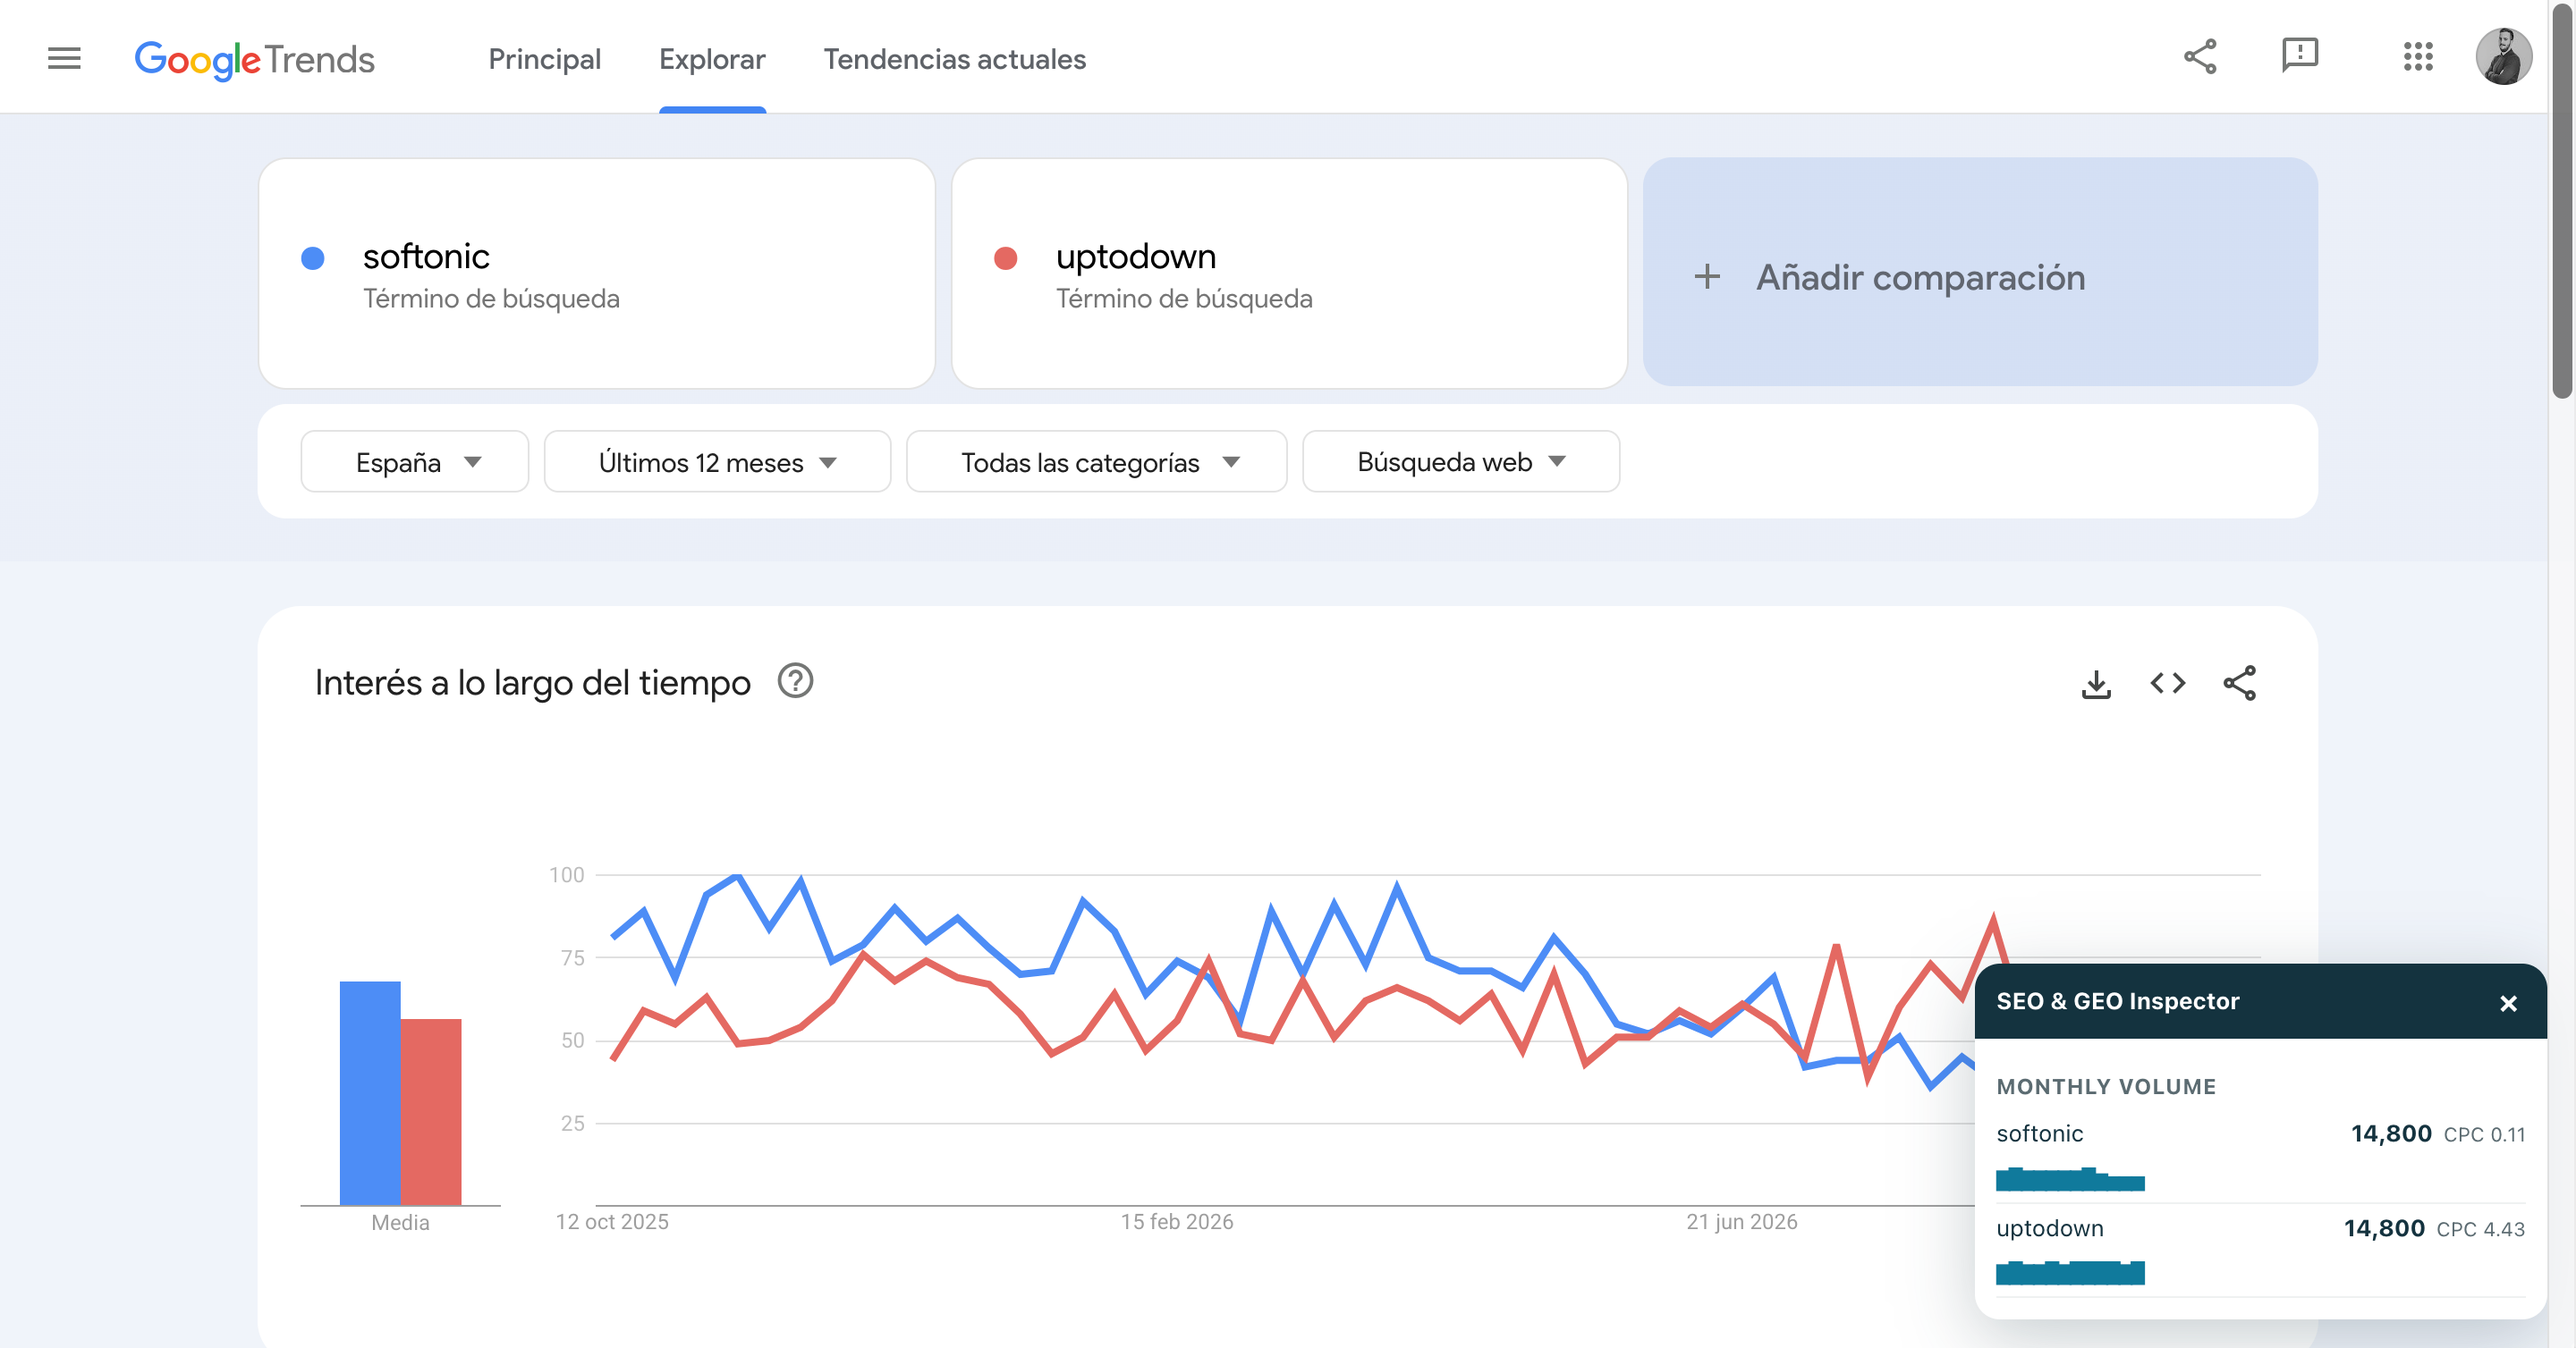
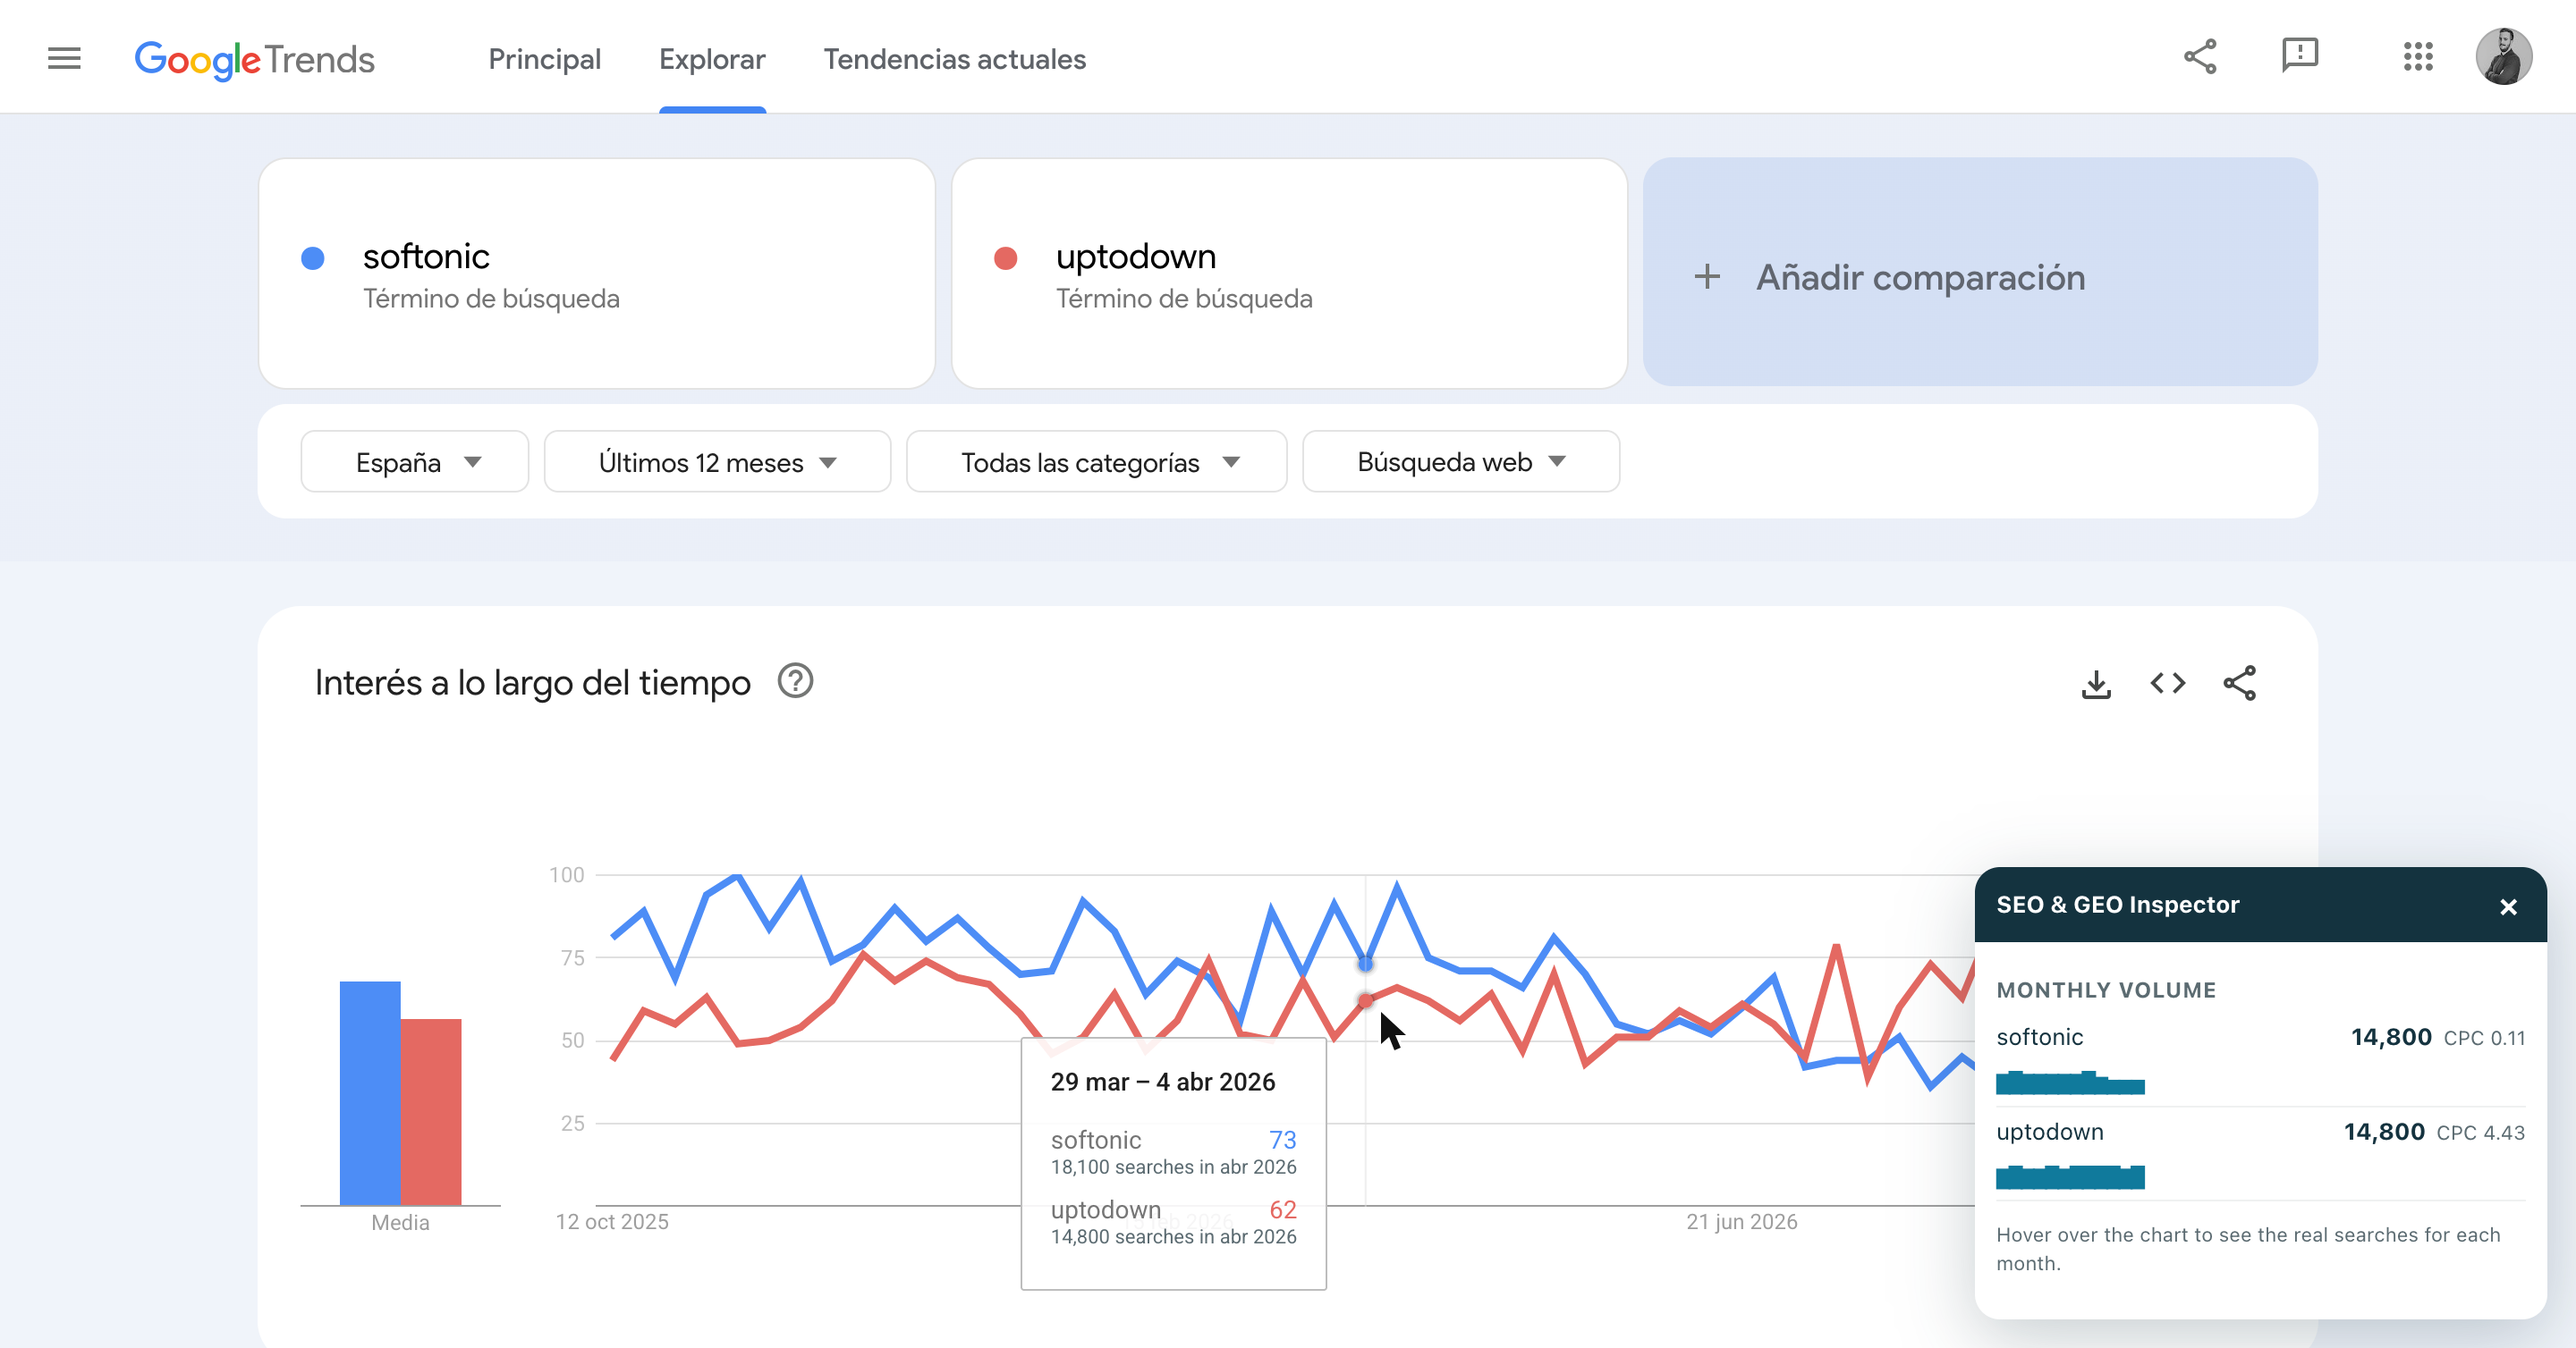
feat: extension landing Trends capture shows monthly searches in the chart tooltip

diff --git a/src/data/extension.ts b/src/data/extension.ts
@@ -219,12 +219,12 @@ export const extensionLanding: Record<Lang, ExtensionLandingCopy> = {
         id: 'serps',
         title: 'Entidades y volúmenes en Google y Trends',
         detail: [
-          'En cada búsqueda de Google, un recuadro con las entidades del Knowledge Graph que aparecen en la SERP, con su kgmid y su enlace a Wikidata. Con tu cuenta de DataForSEO suma el volumen mensual, el CPC y la tendencia de 12 meses de la búsqueda y de sus relacionadas. En Google Trends, el volumen de los términos que comparas.',
+          'En cada búsqueda de Google, un recuadro con las entidades del Knowledge Graph que aparecen en la SERP, con su kgmid y su enlace a Wikidata. Con tu cuenta de DataForSEO suma el volumen mensual, el CPC y la tendencia de 12 meses de la búsqueda y de sus relacionadas. En Google Trends, el volumen de los términos que comparas y, al pasar el ratón por la gráfica, las búsquedas reales de cada mes.',
           'Pagas a DataForSEO solo lo que consultas y cada volumen se guarda 30 días. Con una clave de la API Natural Language de Google, además, saca las entidades que tratan los 10 primeros resultados.',
         ],
         shots: [
           { shot: 'serp-volumenes', alt: 'Búsqueda de softonic en Google con el recuadro de la extensión: la entidad Softonic con su kgmid y el volumen de la búsqueda y de sus relacionadas', caption: 'softonic: 14.800 búsquedas al mes en España, y el volumen de cada búsqueda relacionada.', wide: true },
-          { shot: 'trends-volumenes', alt: 'Google Trends comparando softonic y uptodown, con el volumen mensual de cada término en el recuadro de la extensión', caption: 'Trends enseña el interés relativo; la extensión añade cuántas búsquedas son.', wide: true },
+          { shot: 'trends-volumenes', alt: 'Google Trends comparando softonic y uptodown: el tooltip de la semana del 29 de marzo añade 18.100 y 14.800 búsquedas en abril de 2026, y el recuadro de la extensión da el volumen mensual de cada término', caption: 'Trends enseña el interés de 0 a 100; la extensión añade cuántas búsquedas son, mes a mes, en el propio tooltip.', wide: true },
         ],
       },
       {
@@ -375,12 +375,12 @@ export const extensionLanding: Record<Lang, ExtensionLandingCopy> = {
         id: 'serps',
         title: 'Entities and volumes in Google and Trends',
         detail: [
-          'On every Google search, a box with the Knowledge Graph entities that show up in the SERP, with their kgmid and a link to Wikidata. With your DataForSEO account it adds the monthly volume, CPC and 12-month trend of the search and its related searches. On Google Trends, the volume of the terms you compare.',
+          'On every Google search, a box with the Knowledge Graph entities that show up in the SERP, with their kgmid and a link to Wikidata. With your DataForSEO account it adds the monthly volume, CPC and 12-month trend of the search and its related searches. On Google Trends, the volume of the terms you compare and, when you hover over the chart, the real searches for each month.',
           'You pay DataForSEO only for what you look up, and each volume is cached for 30 days. With a Google Natural Language API key, it also extracts the entities the top 10 results cover.',
         ],
         shots: [
           { shot: 'serp-volumenes', alt: 'Google search for softonic with the extension box: the Softonic entity with its kgmid and the volume of the search and its related searches', caption: 'softonic: 14,800 searches a month in Spain, plus the volume of every related search.', wide: true },
-          { shot: 'trends-volumenes', alt: 'Google Trends comparing softonic and uptodown, with each term’s monthly volume in the extension box', caption: 'Trends shows relative interest; the extension adds how many searches that is.', wide: true },
+          { shot: 'trends-volumenes', alt: 'Google Trends comparing softonic and uptodown: the tooltip for the week of March 29 adds 18,100 and 14,800 searches in April 2026, and the extension box shows each term’s monthly volume', caption: 'Trends shows interest from 0 to 100; the extension adds how many searches that is, month by month, right in the tooltip.', wide: true },
         ],
       },
       {
